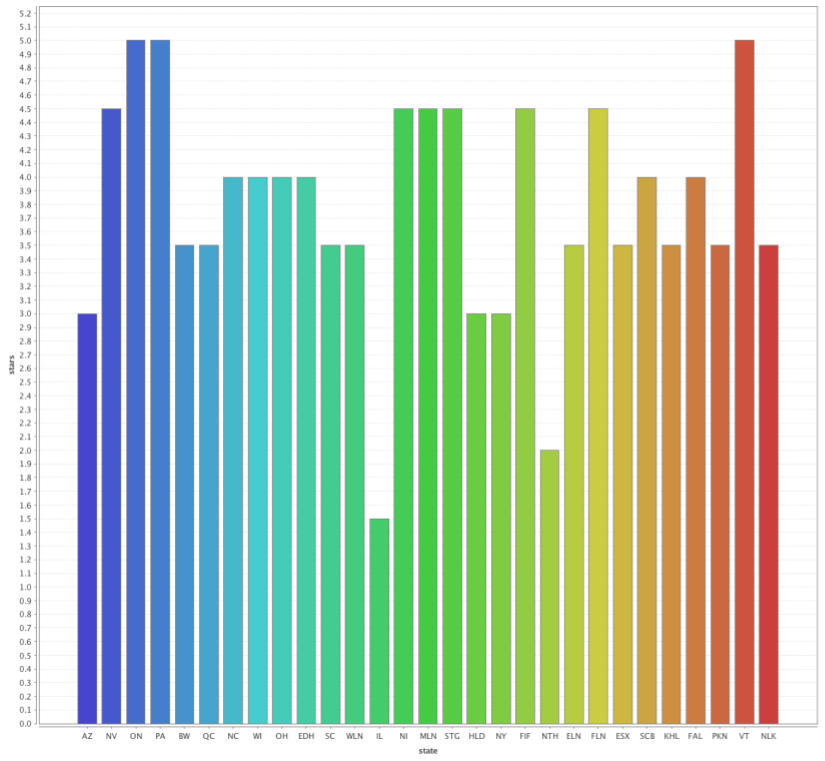
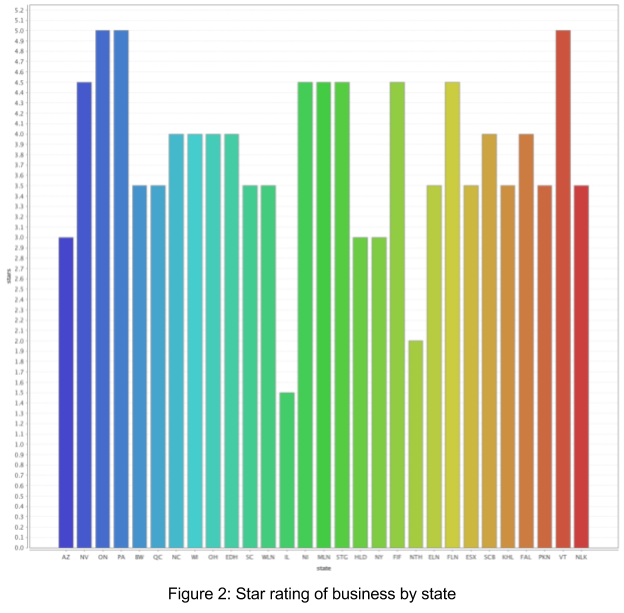
Fixed figure labeling order

diff --git a/paper/paper.tex b/paper/paper.tex
@@ -125,7 +125,7 @@
 
 \quad The script save_reviews_to_business_files.py was used to save all reviews for all businesses in the commonly-reviewed list to separate files, such that each file, named <business_id>.json, contained all the reviews for the business with that business ID. This step was important in building the processing pipeline, but could easily be eliminated now that the pipeline has been developed, so reviews for a certain business could be identified while the script loops through the large review file and then processed without an extra “save” step in between.
 
-\quad Once all reviews for a business were in one file, the script problems_over_time.py was used to analyze the reviews and graph the results. To accomplish this, each review in a <business_id>.json file with a star rating of 3 or fewer stars was tokenized, stemmed, and compared to the following list of words associated with traumatic narratives in Fig.4 on the left:
+\quad Once all reviews for a business were in one file, the script problems_over_time.py was used to analyze the reviews and graph the results. To accomplish this, each review in a <business_id>.json file with a star rating of 3 or fewer stars was tokenized, stemmed, and compared to the following list of words associated with traumatic narratives in Fig. 1 on the left:
 
 \begin{figure}[h]
 \includegraphics[width=0.75\textwidth, center]{table_trauma_keywords}
@@ -137,13 +137,13 @@
 
 \subsection{Basic Statistics and RapidMiner}
 
-\quad After importing the CSV version of the data into RapidMiner, we tested some basic visualization tools included with the package. For instance, in Figure 1 we created a histogram of the average star for a business versus the state in which it is located. Basic graphs like these can help refine our questions. For example, why does Illinois have significantly lower average stars than other states or provinces, even those that border it?
+\quad After importing the CSV version of the data into RapidMiner, we tested some basic visualization tools included with the package. For instance, in Fig. 2 we created a histogram of the average star for a business versus the state in which it is located. Basic graphs like these can help refine our questions. For example, why does Illinois have significantly lower average stars than other states or provinces, even those that border it?
 
 \begin{figure}[h]
 \includegraphics[width=0.75\textwidth, center]{b_rating_by_state}
 \end{figure}
 
-\quad RapidMiner can also produce 3D scatterplots which is useful because we used latitude and longitude in conjunction with the city and state to locate businesses, since some of the business address data is missing and cannot be filled with default values or other common values used to replace missing data. Figure 2 depicts a graph of longitude vs. latitude vs. review count for businesses.
+\quad RapidMiner can also produce 3D scatterplots which is useful because we used latitude and longitude in conjunction with the city and state to locate businesses, since some of the business address data is missing and cannot be filled with default values or other common values used to replace missing data. Fig. 3 depicts a graph of longitude vs. latitude vs. review count for businesses.
 
 \begin{figure}[!h]
 \includegraphics[width=0.75\textwidth, center]{3d_businesses_lat_long}
@@ -157,7 +157,7 @@
 
 \quad Sparse binary data of this kind quickly becomes unwieldy as traditional distance measures are highly prone to error. Such measures include k-means, PCA analysis (for dimensionality reduction), DBSCAN, and agglomerative clustering. Typically, the computational cost is prohibitive (Plumpley, et. al. (2002)) or the numerical values are highly unstable during computation. The goal in our application is to reduce the effective categorical space and classify the businesses into a narrower subset?on the order of ~50. Not surprisingly, this scenario is almost identical to that encountered when processing and analyzing large corpuses of text. Almost every form of textual representation falls into the ?bag-of-words? paradigm where vectors are used to represent each document, and each element corresponds to either the frequency of a given term in the dictionary (i.e., all words from all documents) or the binary existence of the word in the document. Since each document is highly unlikely to have an instance of all terms, the combination of these vectors results in a very large, very sparse matrix of n documents by p terms.
 
-\quad Much research has been done in recent years on Latent Semantic Analysis (or Indexing). This utilizes the fact that a given matrix?s Singular Value Decomposition provides us with a large degree of useful data concerning the nature of the matrix, namely which vectors and rows carry more weight as well as those with less impact. Furthermore, it provides a model through which new data can be projected onto the reduced subspace. The table below shows a sample of the reduced vector space and the first ten terms in each of the new topics.
+\quad Much research has been done in recent years on Latent Semantic Analysis (or Indexing). This utilizes the fact that a given matrix?s Singular Value Decomposition provides us with a large degree of useful data concerning the nature of the matrix, namely which vectors and rows carry more weight as well as those with less impact. Furthermore, it provides a model through which new data can be projected onto the reduced subspace. The table below as Fig. 4 shows a sample of the reduced vector space and the first ten terms in each of the new topics.
 
 \begin{figure}[!h]
 \includegraphics[width=0.75\textwidth, center]{topics}
@@ -187,12 +187,6 @@
 
 \subsection{User Behavior}
 
-\quad The users dataset essentially provides a window into users' status, connections, and interactions within the Yelp ecosystem. The figure below shows a plot of the user density versus the average star rating. We see that the density grows around 3.25-4.25 stars with some traces of a bell curve regarding the number of reviews the user has written.
-
-\begin{figure}[!h]
-\includegraphics[width=0.45\textwidth, center]{u_reviews_vs_stars}
-\end{figure}
-
 \quad Our correlation matrices for the user data showed some insight into the social behavior on Yelp. Our first matrix included each complement type and the average stars a user gave in their reviews (Fig. 8). This matrix showed that there was not a correlation between the number of stars a user would give in their reviews and the compliments they receive. This seems to indicate that users would not be motivated to give a business a better or worse review in order to gain favorability in their profile.
 
 \quad The second matrix (Fig. 9) includes the average stars feature and the total compliments feature. Again, there does not seem to be a relationship between star ratings given and the compliments received.
@@ -207,7 +201,7 @@
 
 \subsection{Tracking Problems}
 
-\quad To answer the question of what types of problems were repeatedly present in a business, we built a utility that analyzes the language found in reviews. As mentioned in the Related Work section, Jurafsky et al. (2014) used a log-odds-ratio informative Dirichlet prior to determine the 50 words most statistically overrepresented in Yelp reviews with one star. We then used the stemmed forms of most of these words (see Fig. 4 in Main Techniques, Natural Language Processing) to determine the “issue distribution” for a particular business during a particular month, two examples of which are below as Fig. 10:
+\quad To answer the question of what types of problems were repeatedly present in a business, we built a utility that analyzes the language found in reviews. As mentioned in the Related Work section, Jurafsky et al. (2014) used a log-odds-ratio informative Dirichlet prior to determine the 50 words most statistically overrepresented in Yelp reviews with one star. We then used the stemmed forms of most of these words (see Fig. 1 in Main Techniques, Natural Language Processing) to determine the “issue distribution” for a particular business during a particular month, two examples of which are below as Fig. 10:
 
 \begin{figure}[h]
 \includegraphics[width=0.75\textwidth, center]{nltk_tracking}
@@ -219,7 +213,7 @@
 
 \quad The decision tree provides insight into the separation of businesses by their category. This can help classify the category of a new business or new areas. For instance, given a new business located at x latitude and y longitude, Yelp can make predictions based on surrounding categories. The tree also reveals the significance of a business being open or permanently closed, and potential declines in certain communities of businesses. Communities that have closing businesses are likely to have surrounding businesses close as well. In terms of businesses, this can help entrepreneurs choose areas that aren’t in decline when starting a new business.
 
-\quad Latitude and longitude are also significant to the category of a business. For businesses this is important because certain categories become abundant in certain areas. One example is that in both New York City and Montreal there are a significant number of creperies because of New York City’s large population density and Montreal’s French influences. New businesses should consider other locations where creperies aren’t as popular. This can provide opportunities for new or existing businesses to venture into new areas. It can also help reveal the niche in certain communities such as in Fig. 4 where certain areas have relatively high concentrations of fitness-related businesses and even martial arts. New businesses can add to concentrations of businesses with an extra twist or bring quality to a category. This quality can be better determined with the k-means clusters.
+\quad Latitude and longitude are also significant to the category of a business. For businesses this is important because certain categories become abundant in certain areas. One example is that in both New York City and Montreal there are a significant number of creperies because of New York City’s large population density and Montreal’s French influences. New businesses should consider other locations where creperies aren’t as popular. This can provide opportunities for new or existing businesses to venture into new areas. It can also help reveal the niche in certain communities such as in Fig. 5 where certain areas have relatively high concentrations of fitness-related businesses and even martial arts. New businesses can add to concentrations of businesses with an extra twist or bring quality to a category. This quality can be better determined with the k-means clusters.
 
 \quad The clusters determined by k-means portray where Yelp is more impactful to a business. West coast areas receive more reviews on average. This can be helpful for businesses to measure their performance. Businesses that want to receive more feedback may consider the clusters that have higher review counts. It also reveals a more active community of Yelp which could be better business. There may be more competition in this clusters, but success can result in exponential growth in an active Yelp community.
 
